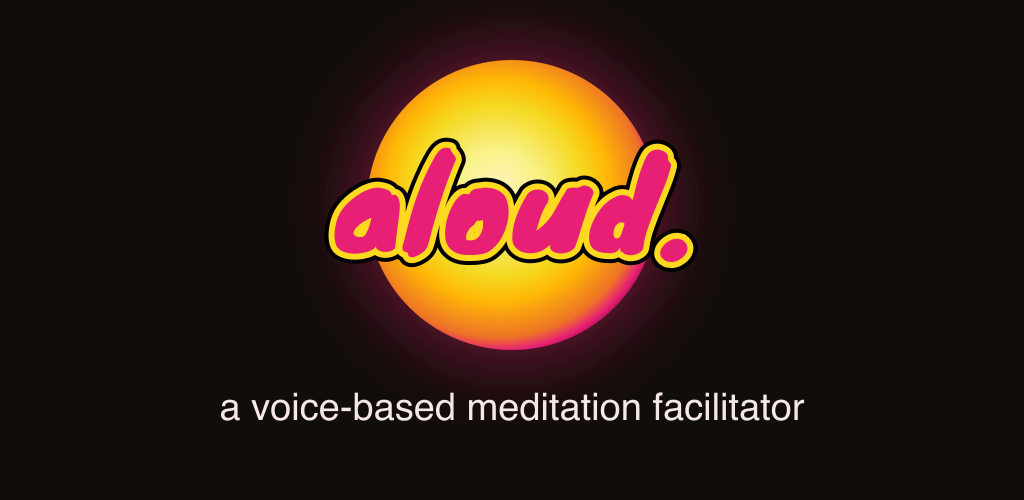
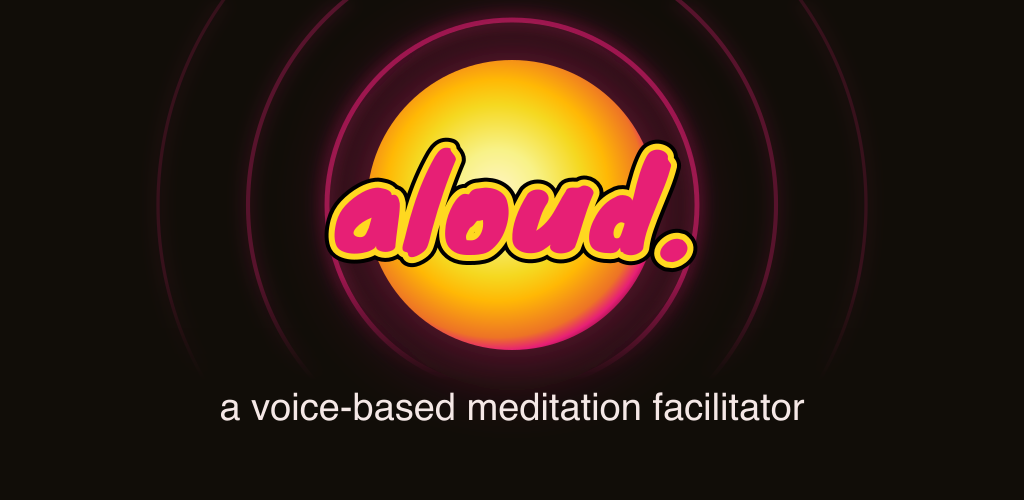
share materials: rings on the cards, three pulses on the site orb
The share card gets the same frozen ripple as the icon, and a layout that
the rings made possible: tagline overhead, orb on the canvas centre line,
url below. The rings fade out above and below so no line of type sits on a
stroke. Same treatment on the Play feature graphic and both video cards,
sized off each one's orb (radii 1.27 / 1.82 / 2.44 times its radius).

On the site, the hero orb now emits three ripples on load and then settles
into its breathing - 1.8s each, slower than the boot orb's 1.2s, which is
reporting work where this one is only saying hello. Two pseudo-elements
cover three emissions; nothing lingers once the last one finishes.

PNG regeneration is a script now (scripts/generate-share-cards.sh) rather
than remembered rsvg commands.

diff --git a/docs/css/style.css b/docs/css/style.css
@@ -272,6 +272,7 @@ code {
   margin-bottom: 1rem;
 }
 .orb {
+  position: relative;
   width: 180px;
   height: 180px;
   border-radius: 50%;
@@ -293,8 +294,40 @@ code {
   0%, 100% { transform: scale(1);    box-shadow: 0 0 60px var(--accent-glow), 0 0 100px rgba(231, 31, 117, 0.32), 0 0 160px rgba(231, 31, 117, 0.22); }
   50%      { transform: scale(1.04); box-shadow: 0 0 80px var(--accent-glow), 0 0 130px rgba(231, 31, 117, 0.40), 0 0 200px rgba(231, 31, 117, 0.28); }
 }
+
+/* Three ripples on load, then the orb settles into its breathing - the same
+   figure the app icon wears statically and the boot orb pulses forever
+   (ui/src/style.css, #boot-orb). Slower here at 1.8s: the boot orb's 1.2s is
+   reporting work, this one is only saying hello.
+   Two rings covering three emissions: ::before goes twice, ::after once in
+   the gap between them. Both start at opacity 0, so nothing lingers after
+   the last one finishes at ~3.6s. */
+.orb::before,
+.orb::after {
+  content: '';
+  position: absolute;
+  inset: 0;
+  border-radius: 50%;
+  border: 2px solid color-mix(in srgb, var(--accent) 60%, transparent);
+  box-shadow: 0 0 24px 4px color-mix(in srgb, var(--accent) 28%, transparent);
+  opacity: 0;
+  pointer-events: none;
+  animation: orbRipple 1.8s ease-out 2;
+}
+.orb::after {
+  animation-delay: 0.9s;
+  animation-iteration-count: 1;
+}
+@keyframes orbRipple {
+  0%   { transform: scale(1);   opacity: 0.55; }
+  70%  { opacity: 0.14; }
+  100% { transform: scale(2.2); opacity: 0; }
+}
+
 @media (prefers-reduced-motion: reduce) {
   .orb { animation: none; }
+  .orb::before,
+  .orb::after { animation: none; }
 }
 
 /* ===== buttons ===== */

diff --git a/dev-docs/desktop.md b/dev-docs/desktop.md
@@ -141,7 +141,11 @@ Endpoints (served at `/app/v1/*`):
   bundle ID); window 1000×820, min 480×600.
 - **Bundle art**: the app icon set (`src-tauri/icons/`) is generated from
   `assets/app-icon.svg` via `npx tauri icon` (dark `#110d08` rounded tile so it
-  doesn't render as a "fried egg" on a transparent fill). The DMG uses Tauri's
+  doesn't render as a "fried egg" on a transparent fill), then
+  `scripts/generate-app-icons.sh` - which re-renders everything under 512px from
+  `app-icon-small.svg` (heavier ring strokes, since a hairline ring doesn't
+  survive the downscale) and covers the `.icns`/`.ico`/store/mobile rasters too.
+  Run both, in that order, after any icon change. The DMG uses Tauri's
   default window layout (light background, readable labels). A custom wordmark
   background is parked in `assets/dmg-background.svg` (regen command in its header)
   but **not currently wired** - a dark bundle background made the Finder icon

diff --git a/dev-docs/pre-release-checklist.md b/dev-docs/pre-release-checklist.md
@@ -32,7 +32,9 @@ check each of these still reflects reality:
   whenever the setup or session UI changes, or the site shows a version of the
   app that no longer exists.
 - **`docs/assets/aloud-share.png`** + `assets/share-card.svg` - the share-card
-  tagline if the positioning/tagline changed.
+  tagline if the positioning/tagline changed. The PNGs are **generated**:
+  `scripts/generate-share-cards.sh` re-renders the share card, the Play feature
+  graphic and both video cards from their SVGs (needs Knewave installed).
 - **`README.md`** - product description, modes, provider list, platform notes,
   tips, install instructions, screenshot reference. The **download links are
   expected to name the last published release**, not the one being cut - they're
